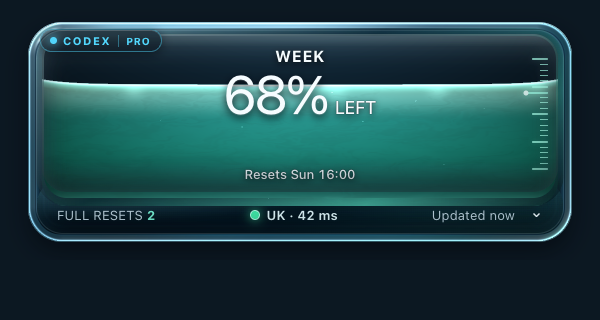
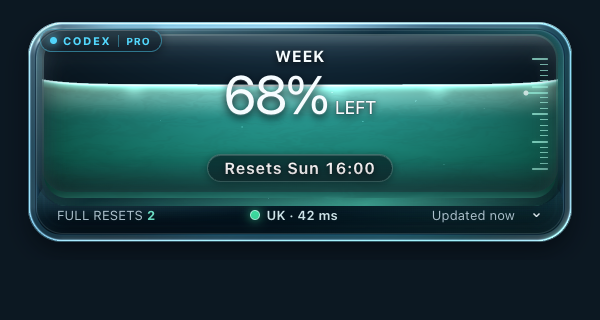
style(pro): 重置时间改为毛玻璃药丸，修复液面遮挡与对比度不足
Pro 单仓的 Resets 文案原先 13px 细字重直接压在亮色液面上，低液位时
被液面高光线洗掉。改为 16px/650 白字 + 深色毛玻璃药丸底座（描边、内
高光、投影），任意液位可读；双仓维持已批准样式不动。

验证：runtime 合成态 full(100%)/low(8%)/normal/unavailable 四态截图
+ 真实账号原生实拍（9% 液位）均清晰；verify-pro-ui.mjs 12 态回归无
页面错误，窄条点击恢复/拖动不误恢复保持通过。

Changed region(s): [[0.33, 0.4688, 0.66, 0.5938]]

diff --git a/src/App.css b/src/App.css
@@ -467,6 +467,23 @@ input:focus-visible {
   font-variant-numeric: tabular-nums;
 }
 
+/* Pro 单仓的重置时间压在全宽液面上：加大加粗并垫毛玻璃药丸，保证任意液位可读 */
+.quota-cell--pro .reset-time {
+  font-size: 16px;
+  font-weight: 650;
+  color: #ffffff;
+  letter-spacing: 0.06em;
+  padding: 4px 16px;
+  border-radius: 999px;
+  background: rgba(3, 17, 23, 0.6);
+  border: 1px solid rgba(180, 244, 229, 0.3);
+  box-shadow:
+    inset 0 1px 0 rgba(255, 255, 255, 0.16),
+    0 2px 8px rgba(0, 8, 12, 0.45);
+  backdrop-filter: blur(7px);
+  -webkit-backdrop-filter: blur(7px);
+}
+
 .quota-cell--unavailable .reset-time { color: #b8cbd5; }
 
 .scale-line {
